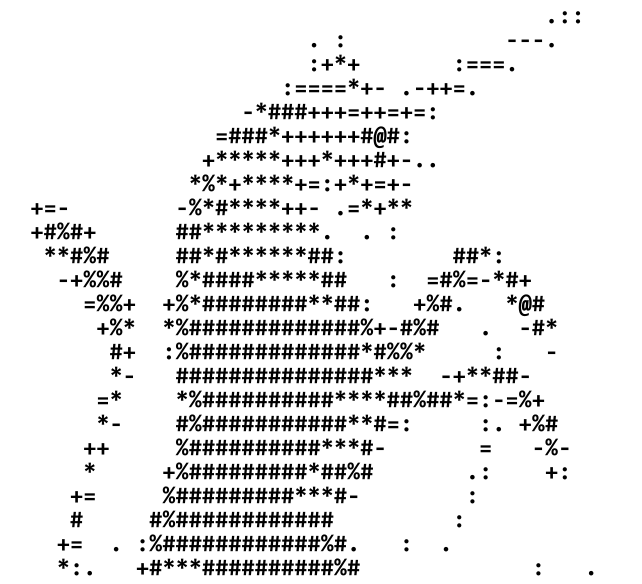
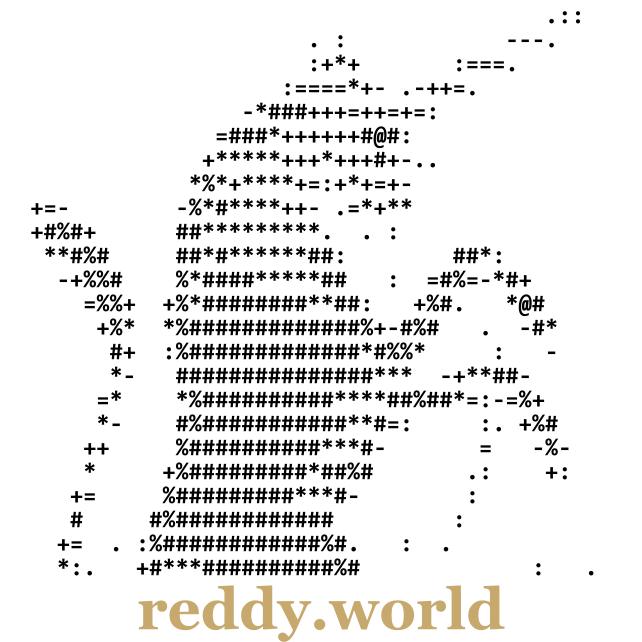
Every picture marked: the unicorn with reddy.world in gold, and a QR code on large pictures
Ryan, 2026-10-25: "i want all images hosted on my site watermarked please, with
name, and can we make the unicorn scannable or at least got reddy.world in gold
under it like a qr".

- The mark: the ASCII unicorn with "reddy.world" in the site's gold under it.
  From 96 px tall (pictures about 740 px and up on their short side) it carries a
  QR code for https://reddy.world/ beside it; it decodes on the 1500, 1200 and
  800 px copies of a test picture.
- Every served picture gets it, 4,395 of them. The 60 that are not Ryan's own work
  (modelling photographs, clients' logos, Maup) get the mark but not his name as
  creator or his copyright in the file or the structured data ('stamp').
- Mark 13% of the short side (48 to 190 px); stamp version unicorn-ascii-2, so the
  cache makes every picture again.

diff --git a/src/lib/image-rights.js b/src/lib/image-rights.js
@@ -12,12 +12,15 @@ export const CREDIT = 'Ryan Reddy';
 export const COPYRIGHT = '© Ryan Reddy';
 export const WEB_STATEMENT = 'https://reddy.world/';
 
-// Not Ryan's work: no mark, no copyright claim.
+// Every picture the site serves carries the mark (Ryan, 2026-10-25: "i want all images hosted on my
+// site watermarked please, with name"). These are not Ryan's own work, all cleared for his use, so
+// they carry the mark (the unicorn and reddy.world) but not his name as creator or his copyright
+// in their metadata or structured data: that would claim someone else's picture.
 const NOT_RYANS = [
   // Maup: kept in the repo, not Ryan's work, never shown (src/lib/archive-curation.js)
   /^\/portfolio\/images\/maup\//,
-  // The modelling pictures are photographs OF Ryan, taken by other people: a decision for
-  // Ryan on #47 before his name goes on them as their creator
+  // The modelling pictures are photographs OF Ryan, taken by other people; the photographer's
+  // credit comes from the image desk
   /^\/portfolio\/images\/vaguelyvulgar\//,
   // ReddyMaekers' "Clients" page: the clients' own logos
   ...[
@@ -27,23 +30,20 @@ const NOT_RYANS = [
   ].map((f) => new RegExp(`^/portfolio/images/rmaekers/2016/07/${f.replace(/[.]/g, '\\.')}$`)),
 ];
 
-// Ryan's own logos: his name in the file, but no unicorn stamped on a logo.
-const NO_STAMP = [
-  /^\/portfolio\/images\/rmaekers\/2016\/07\/logo-round-2\.jpg$/,
-  /^\/portfolio\/images\/rmaekers\/2018\/09\/26903677_1547956805300554_1758949314504906172_n-logo-small-white-background-reddymaekers1\.jpg$/,
-  /^\/portfolio\/images\/rrproductions\/2015\/05\/logo-piraat-glitterbaard-1-1\.gif$/,
-];
+// Pictures with Ryan's name in the file but no mark: none since every picture is marked (2026-10-25)
+const NO_STAMP = [];
 
 /** The picture a -480w/-800w/-1200w copy was made from (its own URL for a master) */
 export const masterOf = (url) => url.replace(/-\d+w(\.(?:jpe?g|png|webp|gif))$/i, '$1');
 
 /**
  * What a served picture carries, by its URL (/portfolio/images/...):
- * 'mark'  the corner unicorn and the metadata; 'meta' the metadata only; 'none' neither.
+ * 'mark' the corner mark and Ryan's name and copyright in the metadata; 'stamp' the mark only,
+ * for pictures that are not his own work; 'meta' his metadata only (none at the moment).
  */
 export function rightsOf(url) {
   const master = masterOf(url);
-  if (NOT_RYANS.some((re) => re.test(master))) return 'none';
+  if (NOT_RYANS.some((re) => re.test(master))) return 'stamp';
   if (NO_STAMP.some((re) => re.test(master))) return 'meta';
   return 'mark';
 }
@@ -51,7 +51,7 @@ export function rightsOf(url) {
 /** creator, credit and copyright for a picture's ImageObject, or nothing when it is not Ryan's */
 export function imageRights(url, personId) {
   const path = url.replace(/^https:\/\/reddy\.world/, '');
-  if (rightsOf(path) === 'none') return {};
+  if (rightsOf(path) === 'stamp') return {};
   return { creator: { '@id': personId }, creditText: CREDIT, copyrightNotice: COPYRIGHT };
 }
 
